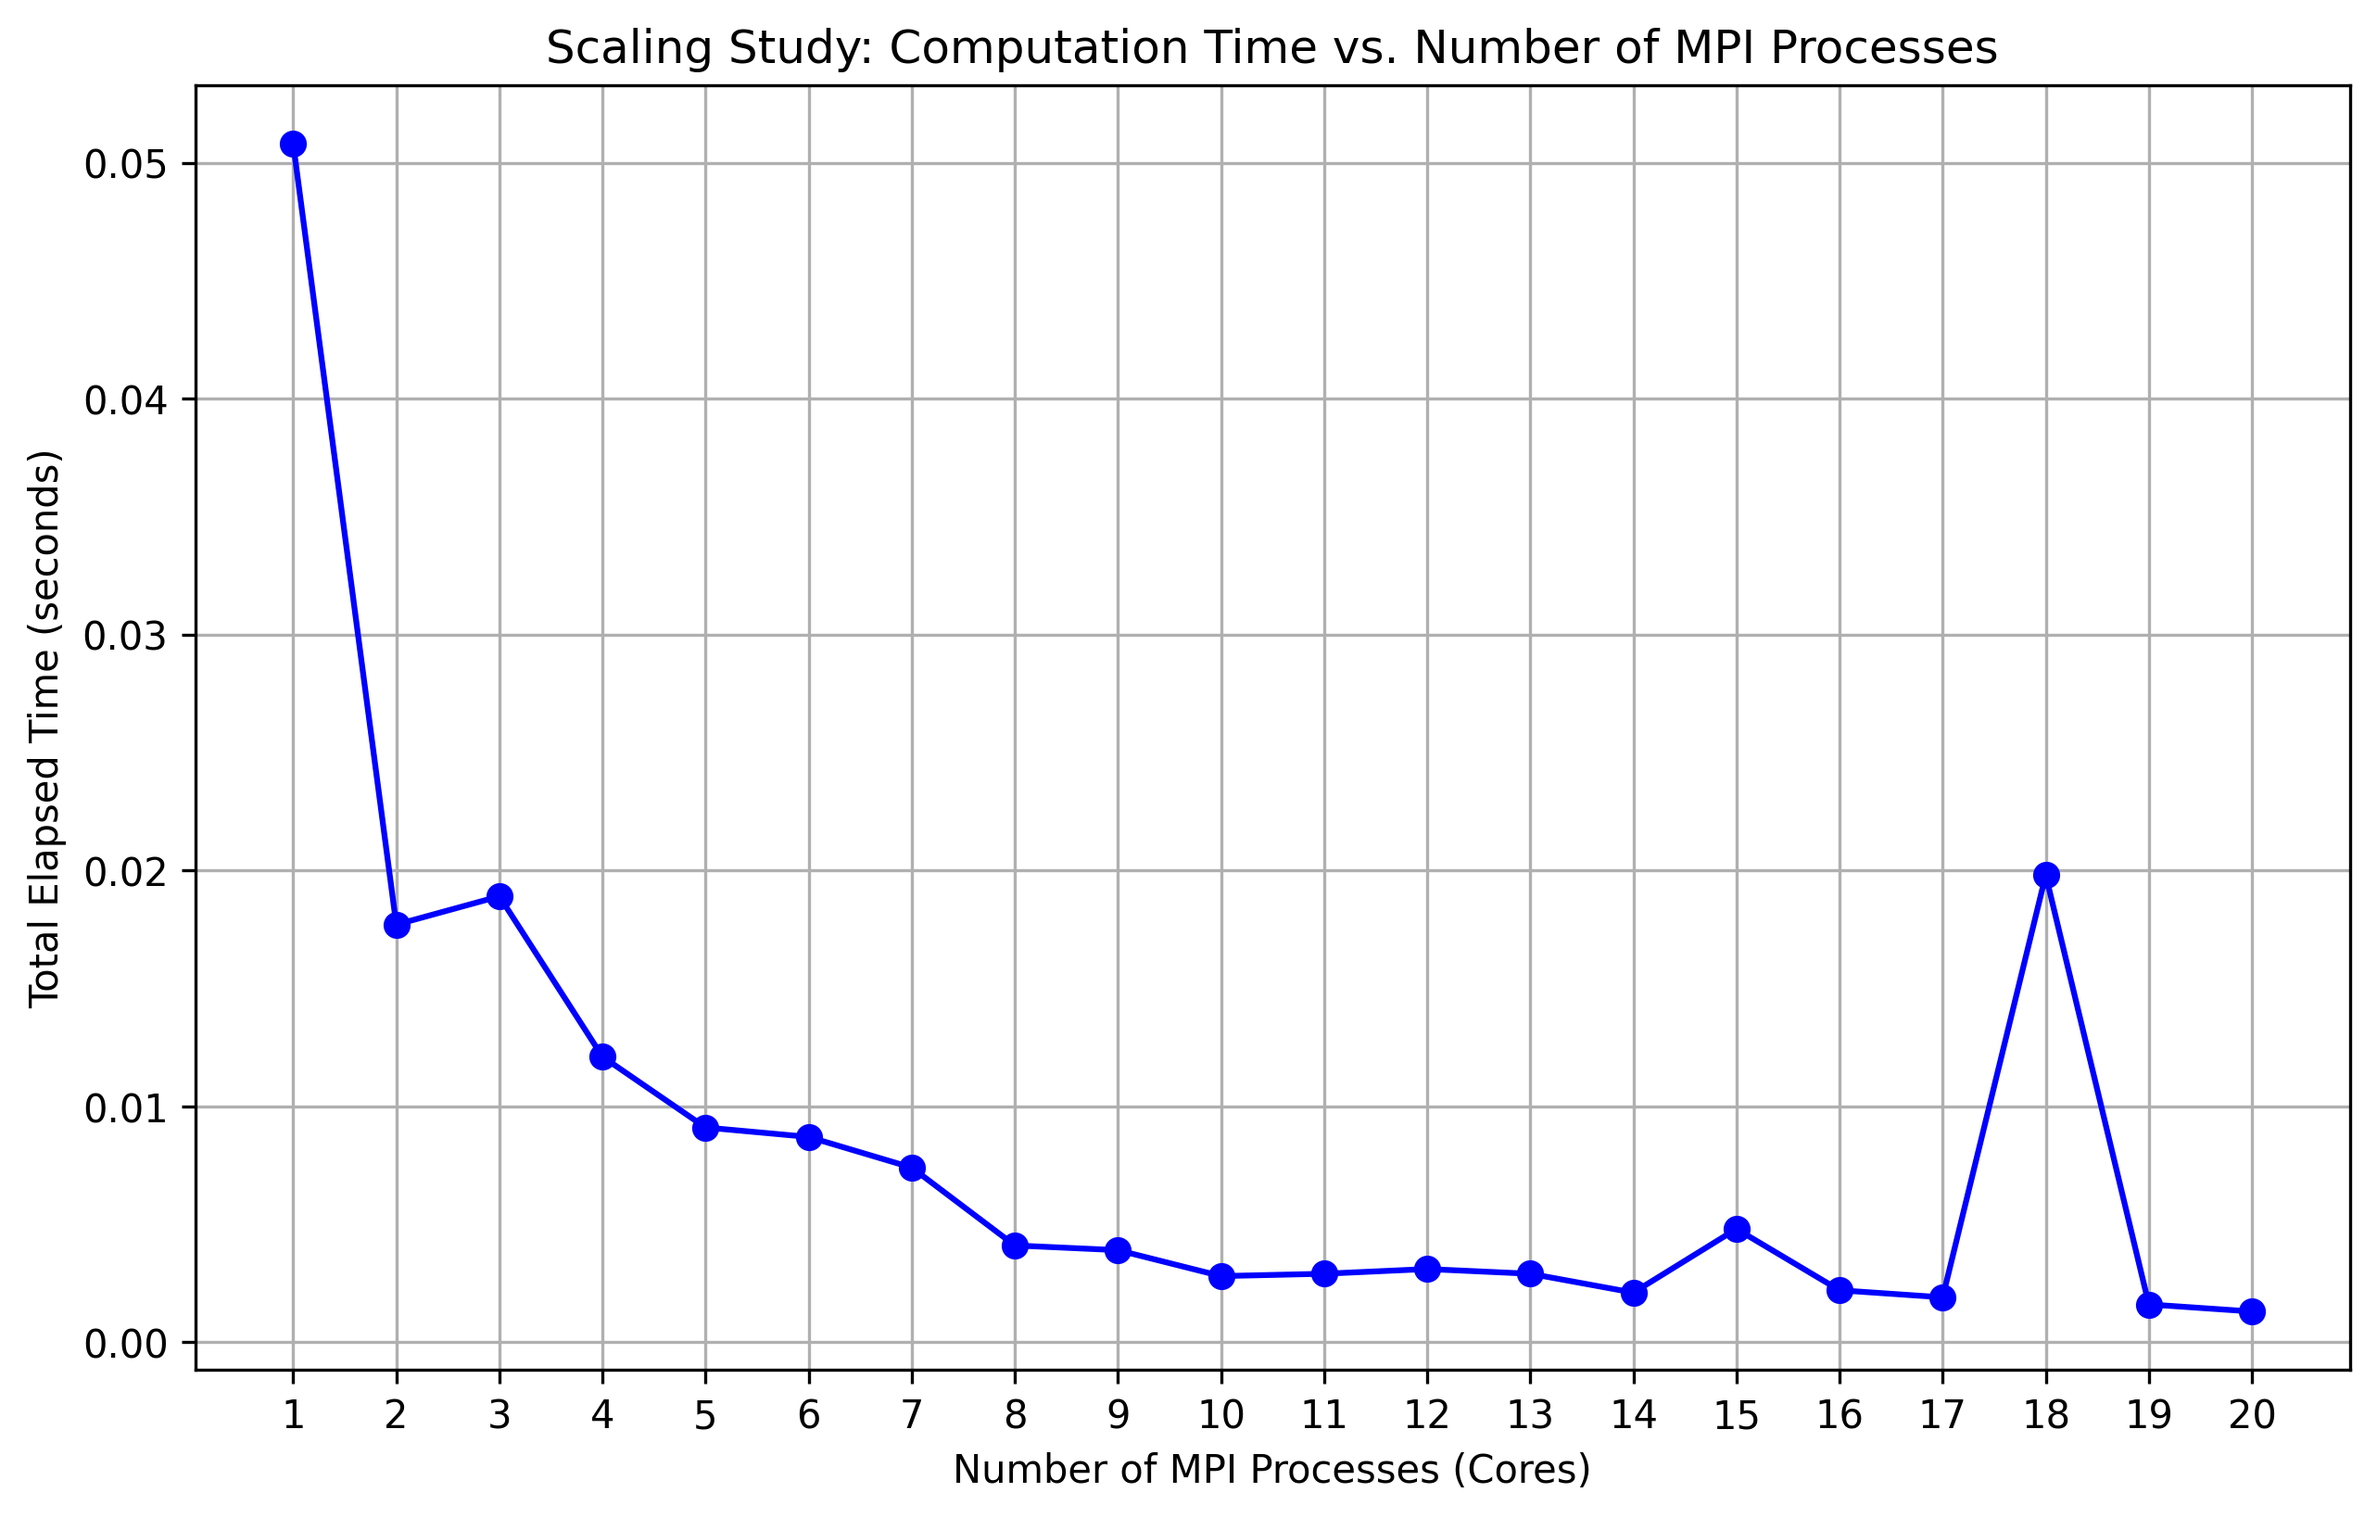
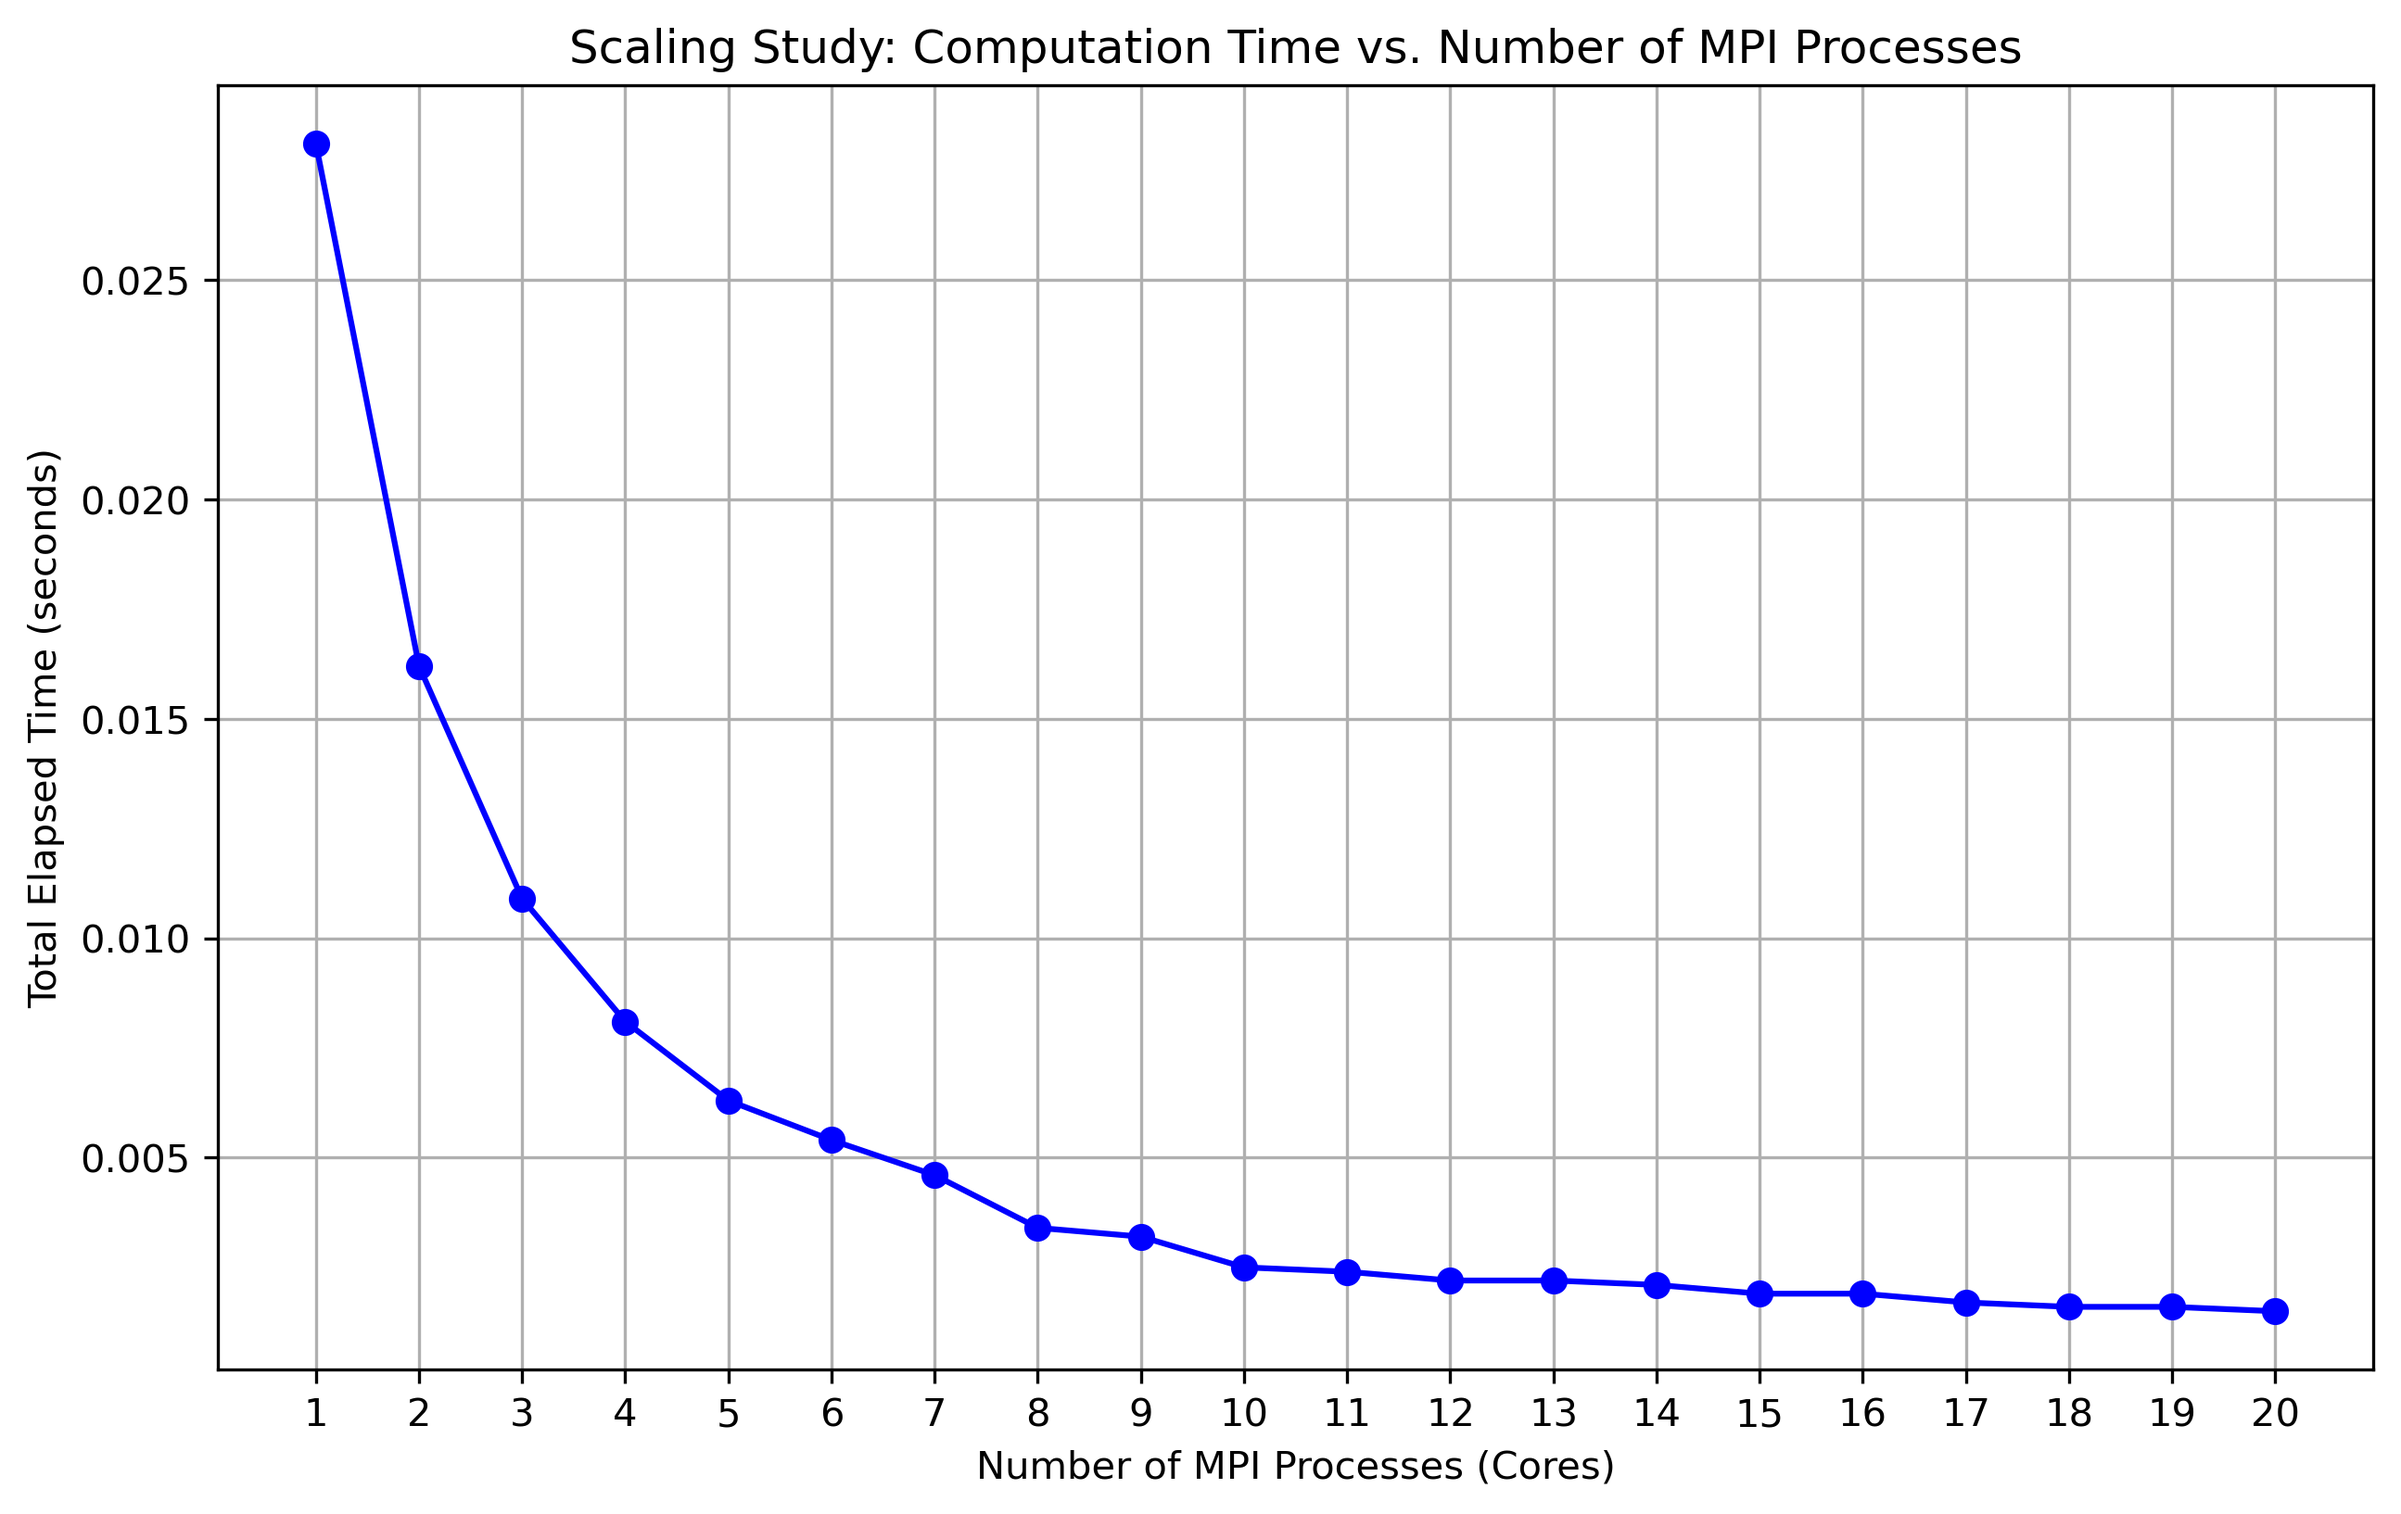
updated

diff --git a/A1/q1/q1b_plot.py b/A1/q1/q1b_plot.py
@@ -7,26 +7,26 @@ cores = [1, 2, 3, 4, 5, 6, 7, 8, 9, 10,
 
 # Corresponding total elapsed times (in seconds) for each run
 elapsed_times = [
-    0.0508,  # 1 core
-    0.0177,  # 2 cores
-    0.0189,  # 3 cores
-    0.0121,  # 4 cores
-    0.0091,  # 5 cores
-    0.0087,  # 6 cores
-    0.0074,  # 7 cores
-    0.0041,  # 8 cores
-    0.0039,  # 9 cores
-    0.0028,  # 10 cores
-    0.0029,  # 11 cores
-    0.0031,  # 12 cores
-    0.0029,  # 13 cores
+    0.0281,  # 1 core
+    0.0162,  # 2 cores
+    0.0109,  # 3 cores
+    0.0081,  # 4 cores
+    0.0063,  # 5 cores
+    0.0054,  # 6 cores
+    0.0046,  # 7 cores
+    0.0034,  # 8 cores
+    0.0032,  # 9 cores
+    0.0025,  # 10 cores
+    0.0024,  # 11 cores
+    0.0022,  # 12 cores
+    0.0022,  # 13 cores
     0.0021,  # 14 cores
-    0.0048,  # 15 cores
-    0.0022,  # 16 cores
-    0.0019,  # 17 cores
-    0.0198,  # 18 cores
+    0.0019,  # 15 cores
+    0.0019,  # 16 cores
+    0.0017,  # 17 cores
+    0.0016,  # 18 cores
     0.0016,  # 19 cores
-    0.0013   # 20 cores
+    0.0015   # 20 cores
 ]
 
 # Create the plot

diff --git a/A1/q1/q1b_rank0.py b/A1/q1/q1b_rank0.py
@@ -33,8 +33,9 @@ local_results = q1a_aot.simulate_z_mat(eps_mat, rho, mu, z_0, T, group)
 end_time = time.time()
 local_elapsed = end_time - start_time
 
-# Optionally, reduce to get the maximum time taken across processes
-total_elapsed = comm.reduce(local_elapsed, op=MPI.MAX, root=0)
+# Replace the reduction operation with MPI.SUM
+total_elapsed = comm.reduce(local_elapsed, op=MPI.SUM, root=0)
 
 if rank == 0:
-    print(f"Total elapsed time (max across processes): {total_elapsed:.4f} seconds")
+    mean_elapsed = total_elapsed / size
+    print(f"Average elapsed time (across processes): {mean_elapsed:.4f} seconds")
